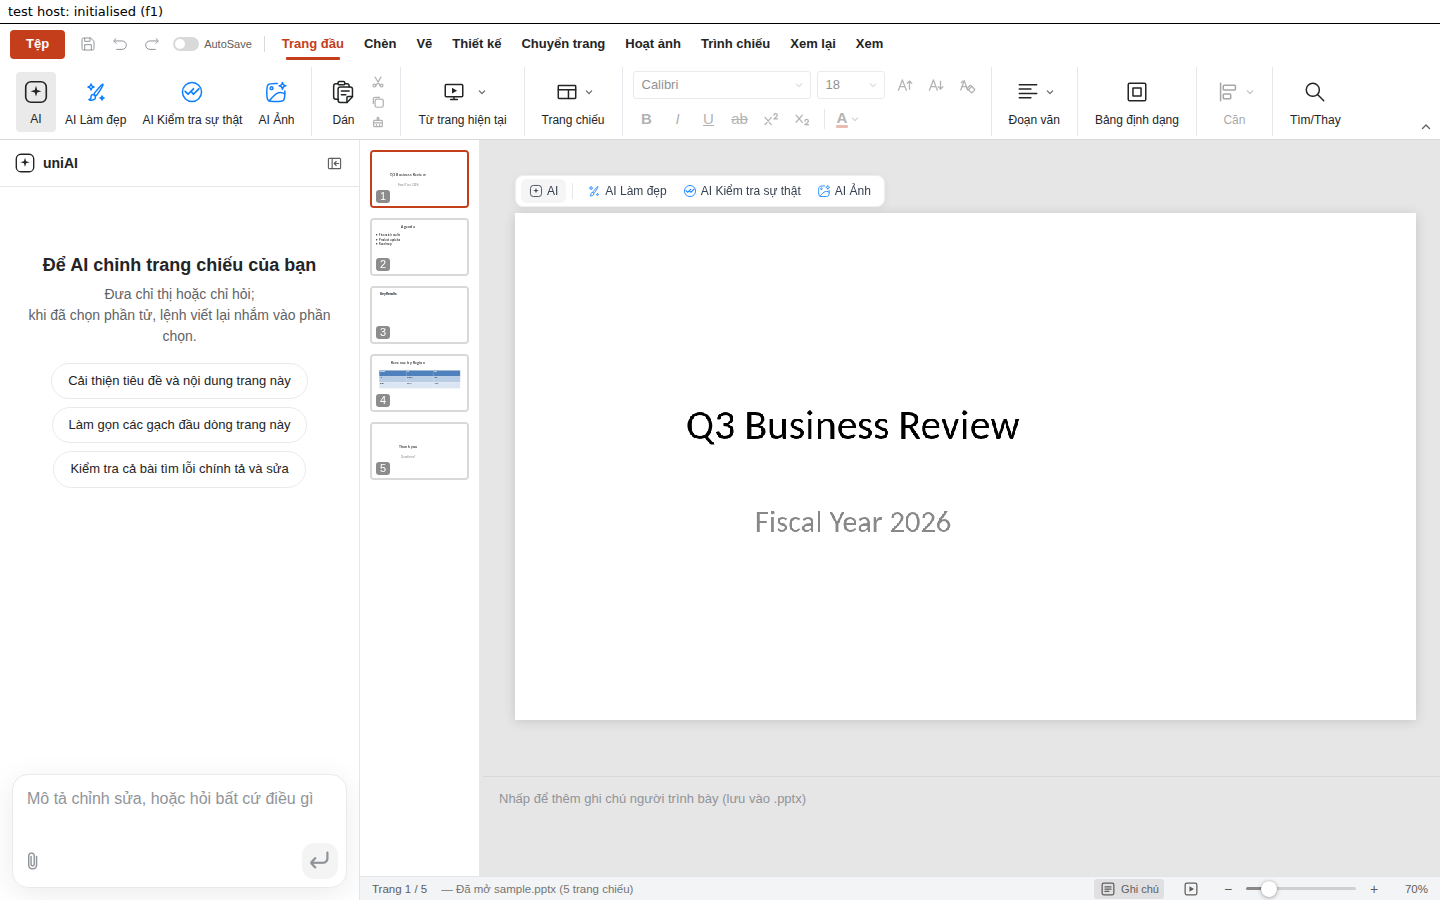
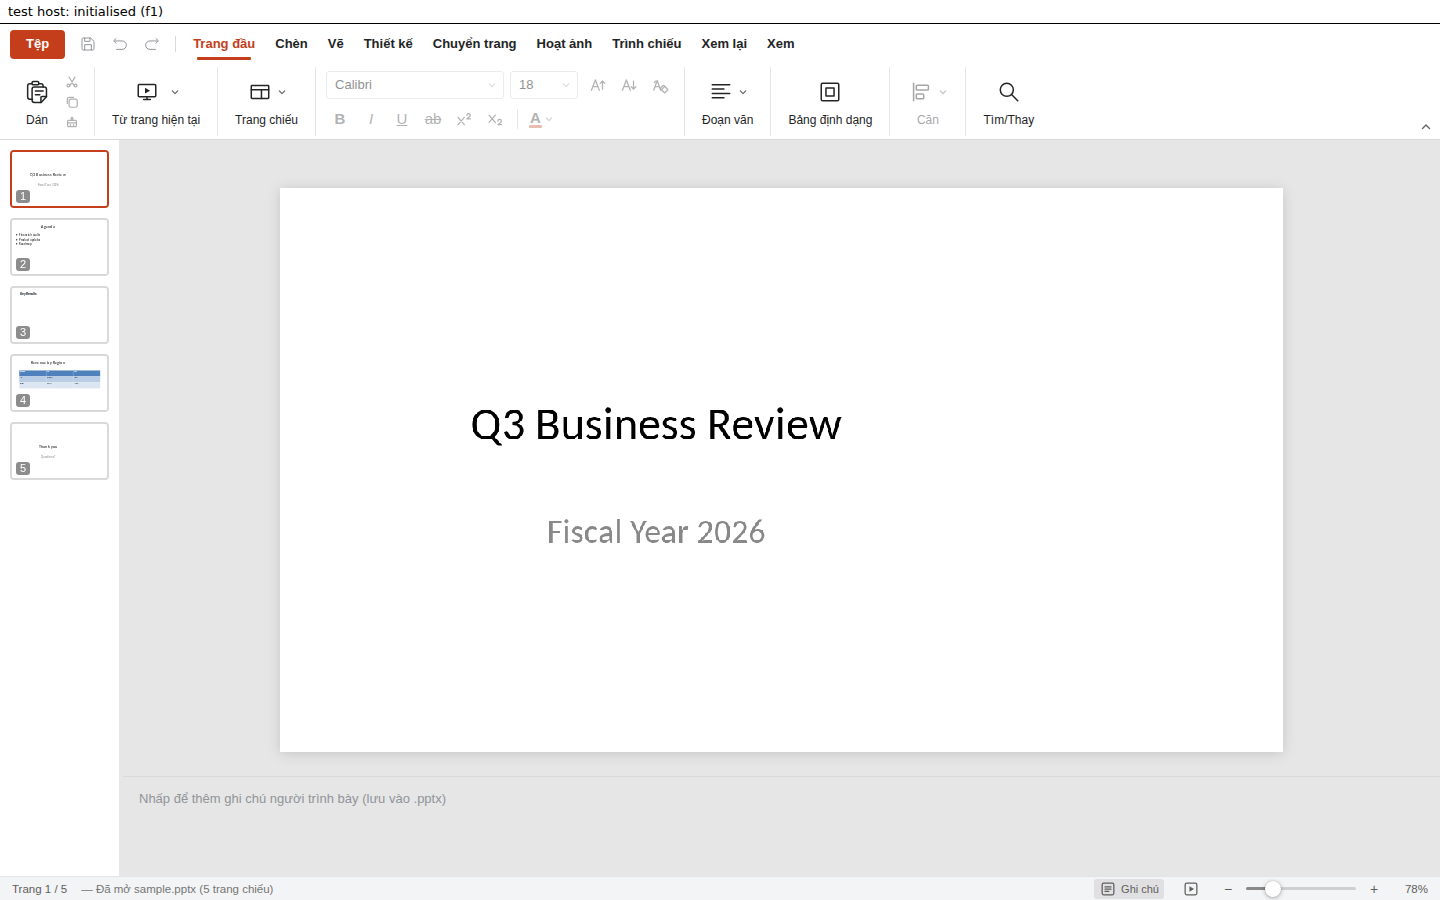
test(slides-web): e2e for the web gating; report sizes and screenshots
- slides-web.spec.ts: a new test asserts that no AutoSave toggle, AI
  entry / dock / rail / stage bar, File > Open, 3D model, local font
  install or AI review preset is shown in the web frame, and that after
  edits and 65 s idle (with window blurs, the autosave triggers) no
  save reached the host and the deck is still dirty. The acceptance
  flow and the screenshot run stay green.
- Screenshots refreshed (light/dark x vi/en, editor + conflict).
- slides-web.md: the S3 gating table, the size change from the lazy
  AiPanel (initial 4.05 -> 3.73 MiB, gzip 1.20 -> 1.09) and why
  on-demand i18n is left for a size pass.

Refs: UNI-1015

diff --git a/web/e2e/slides-web.spec.ts b/web/e2e/slides-web.spec.ts
@@ -262,6 +262,62 @@ test.describe('slides web module', () => {
     })
   })
 
+  test('web gating: no AI / AutoSave / Open / recents / font install / 3D UI, no save without a user action', async ({
+    page,
+  }) => {
+    test.setTimeout(180_000)
+    const problems = await watch(page)
+    const frame = await openDeck(page)
+
+    // hidden by capability (the test host grants save/saveAs/recents/print/exportPdf, not filePick)
+    for (const sel of ['.autosave-toggle', '.ai-entry', '.ai-dock', '.ai-rail', '.stage-ai-bar'])
+      await expect(frame.locator(sel), sel).toHaveCount(0)
+    await frame.getByText('File', { exact: true }).click()
+    await expect(frame.locator('.file-menu')).toBeVisible()
+    await expect(frame.locator('.file-menu')).not.toContainText('Ctrl+O')
+    await expect(frame.locator('.file-menu')).toContainText('Ctrl+S')
+    await frame.getByText('File', { exact: true }).click()
+    await frame.getByRole('button', { name: 'Insert', exact: true }).click()
+    await expect(frame.getByText('3D Models', { exact: true })).toHaveCount(0)
+    await frame.getByRole('button', { name: 'Home', exact: true }).click()
+    await frame.locator('.rb-font-btn').first().click()
+    await expect(frame.locator('.rb-font-install-local')).toHaveCount(0)
+    await page.keyboard.press('Escape')
+    await frame.getByRole('button', { name: 'Review', exact: true }).click()
+    await expect(frame.locator('.ai-feature-icon')).toHaveCount(0)
+
+    // edits, then 65 s idle with a window blur in between: nothing is saved without the user
+    const saves = () =>
+      page.evaluate(
+        () =>
+          (
+            window as unknown as { __host: { events: Array<{ type: string }> } }
+          ).__host.events.filter((e) => e.type === 'saved').length,
+      )
+    const before = await saves()
+    const p = await titlePoint(page, frame)
+    await page.mouse.dblclick(p.x, p.y)
+    await page.keyboard.press('Control+A')
+    await page.keyboard.type('Idle edit')
+    await page.keyboard.press('Escape')
+    await frame.evaluate(() => window.slidesApi.setNotes({ slideIndex: 1, text: 'idle notes' }))
+    await expect.poll(() => frame.evaluate(() => window.slidesApi.isDirty())).toBe(true)
+    await frame.evaluate(() => window.dispatchEvent(new Event('blur')))
+    await page.waitForTimeout(65_000)
+    await frame.evaluate(() => window.dispatchEvent(new Event('blur')))
+    await page.waitForTimeout(1_000)
+    expect(await saves()).toBe(before)
+    expect(await hostSaved(page)).toBeNull()
+    expect(await frame.evaluate(() => window.slidesApi.isDirty())).toBe(true)
+
+    expect({ csp: await cspViolations(page, frame), ...problems }).toEqual({
+      csp: [],
+      console: [],
+      page: [],
+      http: [],
+    })
+  })
+
   test('screenshots: light + dark, vi + en', async ({ page }) => {
     mkdirSync(SHOTS, { recursive: true })
     const problems = await watch(page)

diff --git a/docs/web-modules/slides-web.md b/docs/web-modules/slides-web.md
@@ -72,17 +72,27 @@ AI tree-shaking is not cheap from the bridge: `App.tsx` imports `AiPanel` (and w
 | `web/e2e/slides-fidelity.spec.ts`                                                        | S4 drift table                                                                                                                                                                                                                                                                                                                                              |
 | `web/e2e/modules-smoke.spec.ts` (GF)                                                     | slides boots in the test host                                                                                                                                                                                                                                                                                                                               |
 
-## Still missing in the renderer (S3)
+## Renderer capability gating (S3)
 
-The renderer has no capability gating yet (inventory-b5 1.6); on the web these are visible and must be hidden by the S3 `cap()` retrofit:
+`apps/slides/src/renderer/capabilities.ts` (`cap()` over `@genoffice/ui` `createCapabilityReader`) reads the object the bridge
+installs on `window.slidesApi.capabilities`; Electron sets none, so the desktop keeps every entry. On the web:
 
-1. **AutoSave toggle** (`Ribbon.tsx:1821`, key `autoSaveToDisk`): visible on the web. If a user switches it on, the renderer's own timer saves through `slidesApi.save()`, which the bridge cannot tell from a manual save: **C10 is only enforced once this is hidden** (blocking for release).
-2. AI: the AI dock / uniAI panel, the stage AI bar (`stage-ai-bar`), Home tab AI buttons, `AiAskPopover`, context-menu AI actions (key `ai`; all stubs answer "unavailable").
-3. File > Open and the recent list (`open`, `recents`; the bridge already refuses Ctrl+O without the grant).
-4. Font catalog download / auto-download of missing fonts / install local font (`fontDownload`, `fontInstallLocal`).
-5. Insert 3D model (`model3d`; it works with a file input but has no poster on the web) and the presenter's swap-screens button (`presenterWindow`).
-6. `?mode=tab` / vibrancy chrome reads `window.location` (`Ribbon.tsx:130`, `main.tsx`): harmless on the web today; switch to `capabilities.platform === 'web'`.
-7. The macOS `IS_MAC` fullscreen gate (`SlideShowView.tsx:185`, `PresenterView.tsx:179`) is covered by the bridge's `setShowFullScreen`; S3 may still gate it on `platform` for clarity.
+| key                                | gated                                                                                                                                                                                                                                                     |
+| ---------------------------------- | --------------------------------------------------------------------------------------------------------------------------------------------------------------------------------------------------------------------------------------------------------- |
+| `autoSave`                         | AutoSave toggle hidden and its 30 s / blur timer never armed, whatever a stored preference says (C10; the e2e edits, idles 65 s with blurs and checks that no `saved` event reached the host)                                                             |
+| `ai`                               | AI dock / rail, stage AI bar, Home AI group, Review proofing + translate presets, ask-AI trigger, popover and Ctrl+K, AI settings / presets; `AiPanel` is a lazy chunk the frame never loads                                                              |
+| `open`, `recents`                  | File > Open (Ctrl+O), recent files; on with the host's `filePick` / `recents` grants                                                                                                                                                                      |
+| `save`, `saveAs`                   | QAT save, File > Save / Save As; on with the host's grants. Without `save` the frame is view-only: File, Slide Show and View tabs only, no format context tabs, `file-actions.save/saveAs` refuse, and the bridge serves only read channels of the engine |
+| `fontDownload`, `fontInstallLocal` | catalog download, missing-font banner, install local font                                                                                                                                                                                                 |
+| `model3d`                          | Insert > 3D Models                                                                                                                                                                                                                                        |
+| `presenterWindow`                  | presenter view swap-screens button                                                                                                                                                                                                                        |
+| `platform: 'web'`                  | no native window chrome (traffic-light / caption padding, vibrancy), the File tab on every OS, HTML fullscreen for the show and the presenter view in a macOS browser                                                                                     |
+
+Size after the AI split (`build:web --module slides`, same commit range): initial **4.05 MiB -> 3.73 MiB** (gzip 1.20 -> 1.09);
+the main chunk 4,108.8 kB -> 3,768.4 kB (gzip 1,246.2 -> 1,127.5 kB); `AiPanel-*.js` 342.2 kB (gzip 120.1 kB) moved to the deferred
+set and is never requested by the frame. On-demand i18n was not done: the renderer's translator is synchronous over one object merged
+from every locale shard (`i18n/strings.ts`), so loading locales lazily means an async locale switch in `LocaleProvider` plus
+loader-style aggregators in all four domains; not cheap, and the size win (about 17% of the chunk's sources) is left for a size pass.
 
 ## Open items
 
